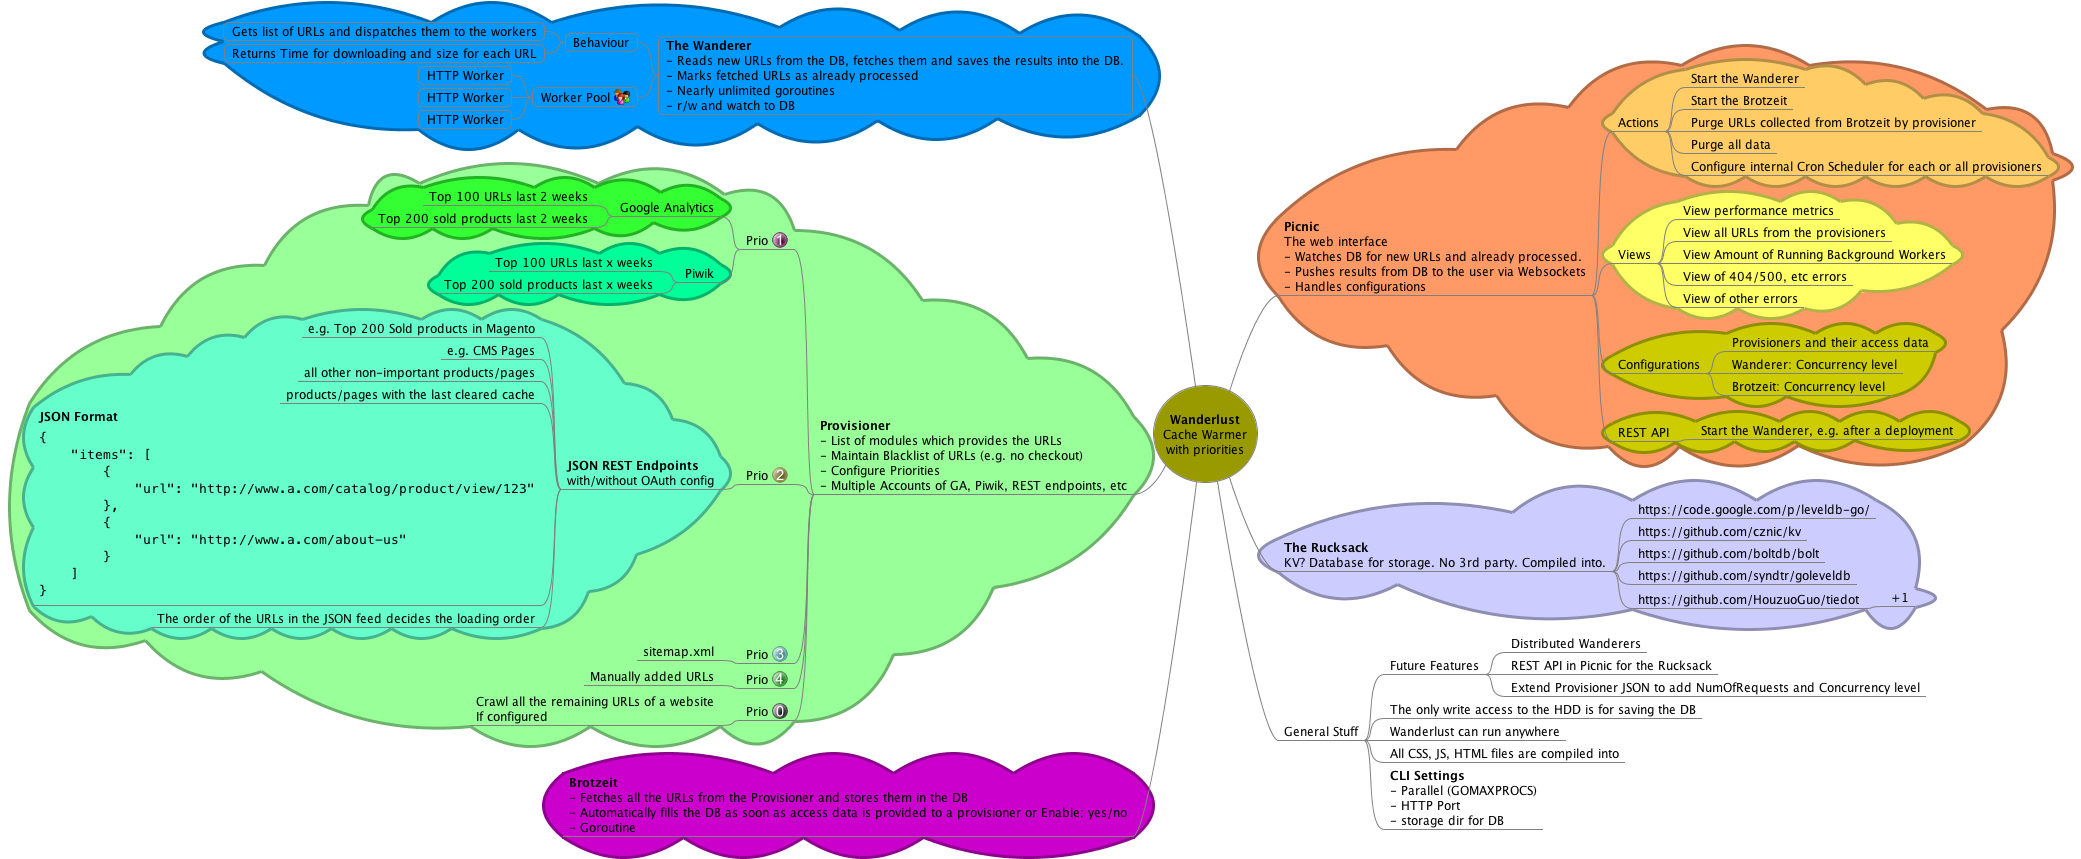
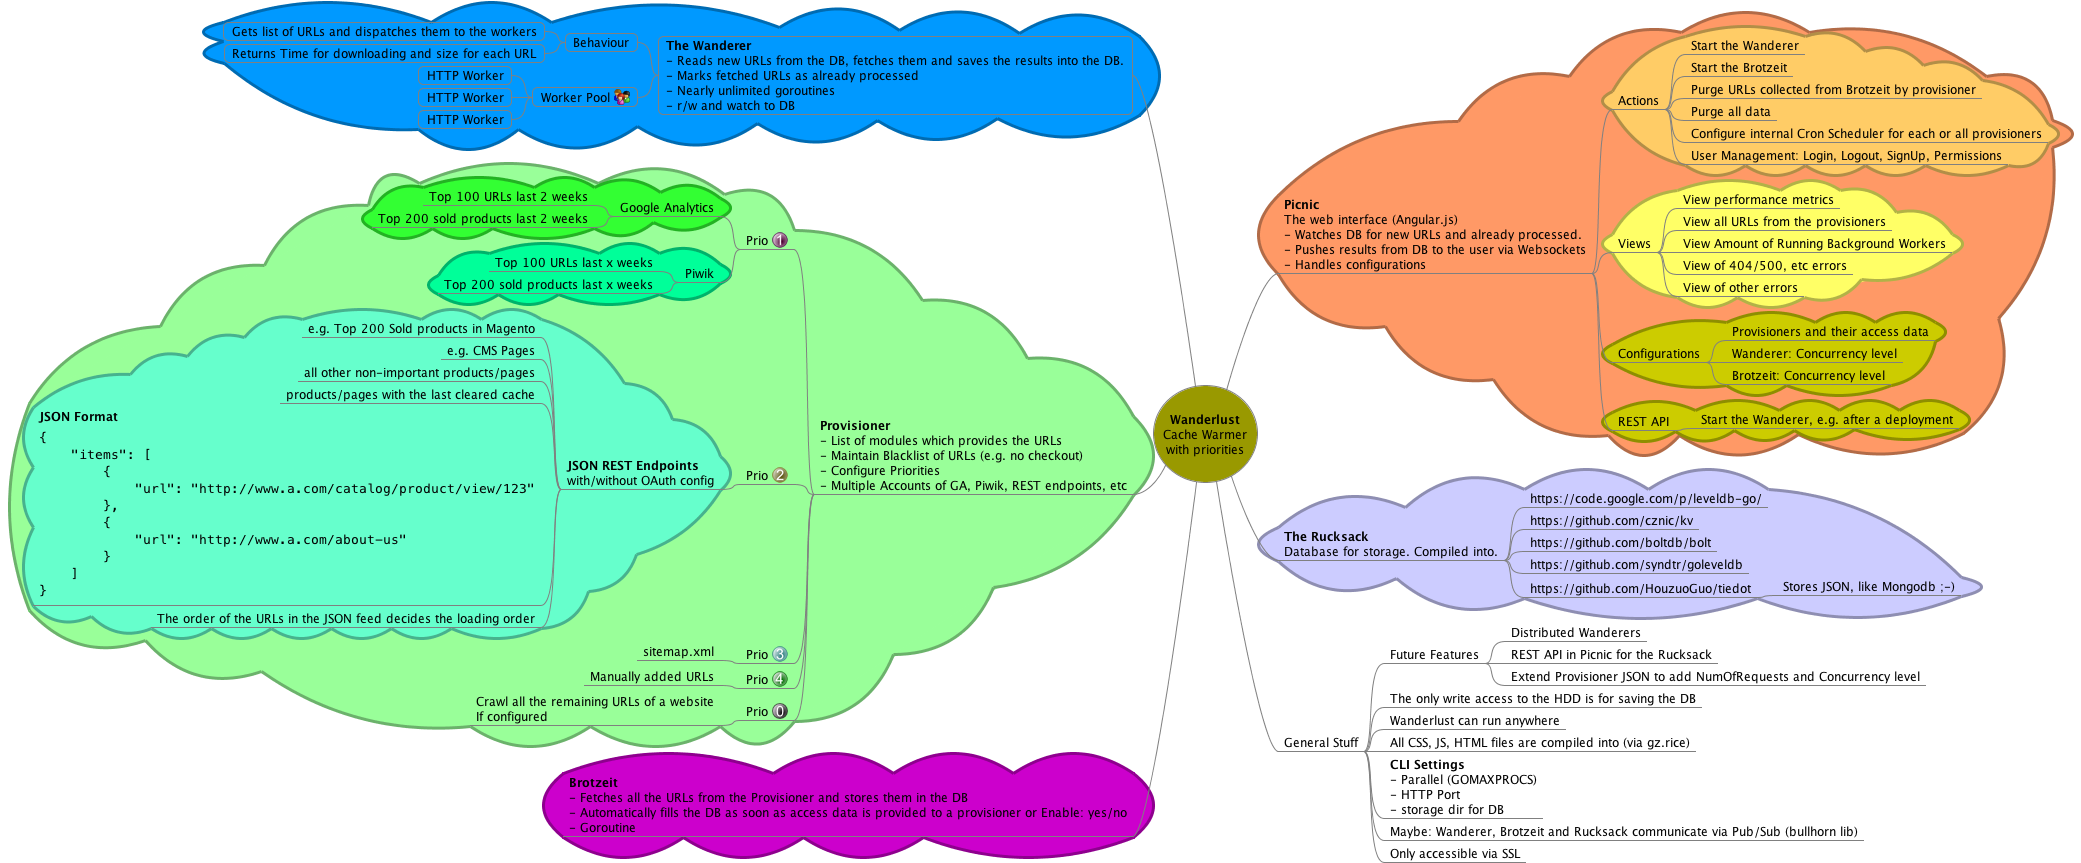
Update mindmap

diff --git a/mindmap/wanderlust.mm b/mindmap/wanderlust.mm
@@ -17,7 +17,7 @@
     </p>
   </body>
 </html></richcontent>
-<node CREATED="1408226077809" ID="ID_1082254437" MODIFIED="1408431998370" POSITION="right">
+<node CREATED="1408226077809" ID="ID_1082254437" MODIFIED="1410908421899" POSITION="right">
 <richcontent TYPE="NODE"><html>
   <head>
     
@@ -27,7 +27,7 @@
       <b>Picnic</b>
     </p>
     <p>
-      The web interface
+      The web interface (Angular.js)
     </p>
     <p>
       - Watches DB for new URLs and already processed.
@@ -39,7 +39,8 @@
       - Handles configurations
     </p>
   </body>
-</html></richcontent>
+</html>
+</richcontent>
 <cloud COLOR="#ff9966"/>
 <node CREATED="1408228814250" ID="ID_1818745543" MODIFIED="1408665089248" TEXT="Actions">
 <cloud COLOR="#ffcc66"/>
@@ -48,6 +49,7 @@
 <node CREATED="1408229470319" ID="ID_1737173709" MODIFIED="1408229482405" TEXT="Purge URLs collected from Brotzeit by provisioner"/>
 <node CREATED="1408229490288" ID="ID_1374484413" MODIFIED="1408229493396" TEXT="Purge all data"/>
 <node CREATED="1408665089999" ID="ID_686051620" MODIFIED="1408665139322" TEXT="Configure internal Cron Scheduler for each or all provisioners"/>
+<node CREATED="1410907631357" ID="ID_1779739970" MODIFIED="1410907647276" TEXT="User Management: Login, Logout, SignUp, Permissions"/>
 </node>
 <node CREATED="1408229245604" ID="ID_1214455075" MODIFIED="1408229284099" TEXT="Views">
 <cloud COLOR="#ffff66"/>
@@ -213,7 +215,7 @@
 </node>
 </node>
 </node>
-<node CREATED="1408227030201" ID="ID_310886734" MODIFIED="1408321579967" POSITION="right">
+<node CREATED="1408227030201" ID="ID_310886734" MODIFIED="1410907338502" POSITION="right">
 <richcontent TYPE="NODE"><html>
   <head>
     
@@ -223,17 +225,18 @@
       <b>The Rucksack</b>
     </p>
     <p>
-      KV? Database for storage. No 3rd party. Compiled into.
+      Database for storage. Compiled into.
     </p>
   </body>
-</html></richcontent>
+</html>
+</richcontent>
 <cloud COLOR="#ccccff"/>
 <node CREATED="1408321536418" ID="ID_1460198452" MODIFIED="1408321667611" TEXT="https://code.google.com/p/leveldb-go/"/>
 <node CREATED="1408321580596" ID="ID_1138239741" MODIFIED="1408321924122" TEXT="https://github.com/cznic/kv"/>
 <node CREATED="1408321633191" ID="ID_1710461451" MODIFIED="1408321634751" TEXT="https://github.com/boltdb/bolt"/>
 <node CREATED="1408321676751" ID="ID_1351308280" MODIFIED="1408321677811" TEXT="https://github.com/syndtr/goleveldb"/>
-<node CREATED="1408321894169" ID="ID_681319205" MODIFIED="1408321895953" TEXT="https://github.com/HouzuoGuo/tiedot">
-<node CREATED="1408321895954" ID="ID_869537289" MODIFIED="1408321898412" TEXT="+1"/>
+<node CREATED="1408321894169" ID="ID_681319205" MODIFIED="1410907371304" TEXT="https://github.com/HouzuoGuo/tiedot">
+<node CREATED="1410907415803" ID="ID_146269911" MODIFIED="1410907428823" TEXT="Stores JSON, like Mongodb ;-)"/>
 </node>
 </node>
 <node CREATED="1408227268529" ID="ID_1662394047" MODIFIED="1408232458793" POSITION="left">
@@ -266,7 +269,7 @@
 </node>
 <node CREATED="1408231265873" ID="ID_525514306" MODIFIED="1408231279512" TEXT="The only write access to the HDD is for saving the DB"/>
 <node CREATED="1408231312099" ID="ID_1235551636" MODIFIED="1408231334046" TEXT="Wanderlust can run anywhere"/>
-<node CREATED="1408231240797" ID="ID_225989754" MODIFIED="1408231258328" TEXT="All CSS, JS, HTML files are compiled into"/>
+<node CREATED="1408231240797" ID="ID_225989754" MODIFIED="1410908446002" TEXT="All CSS, JS, HTML files are compiled into (via gz.rice)"/>
 <node CREATED="1408321328218" ID="ID_970423774" MODIFIED="1408321486226">
 <richcontent TYPE="NODE"><html>
   <head>
@@ -288,6 +291,8 @@
   </body>
 </html></richcontent>
 </node>
+<node CREATED="1410907657982" ID="ID_1984817677" MODIFIED="1410908393960" TEXT="Maybe: Wanderer, Brotzeit and Rucksack communicate via Pub/Sub (bullhorn lib)"/>
+<node CREATED="1410908458912" ID="ID_421948385" MODIFIED="1410908491476" TEXT="Only accessible via SSL"/>
 </node>
 </node>
 </map>
